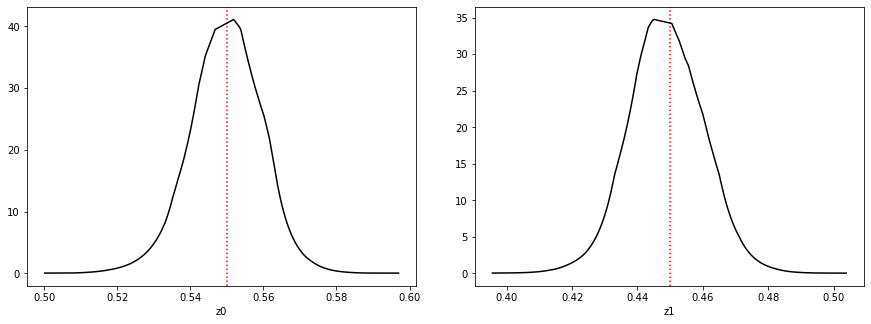
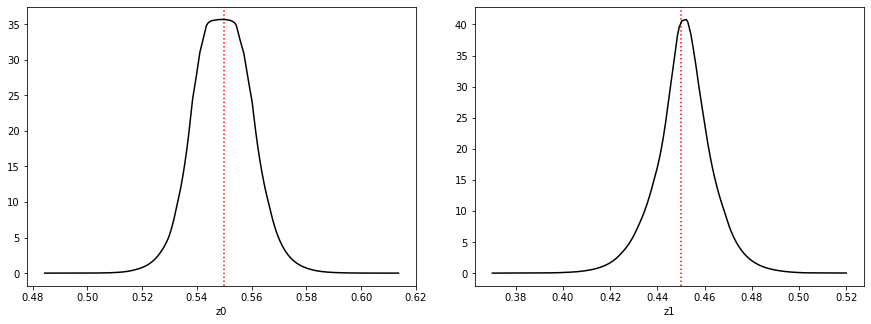
update quickstart docs

diff --git a/docs/source/quickstart.rst b/docs/source/quickstart.rst
@@ -1,14 +1,21 @@
 Quickstart with *swyft*
 =====================
+Run this example in a colab notebook here_.
 
-Example
-------------------
+..  _here: https://colab.research.google.com/github/undark-lab/swyft/blob/master/notebooks/Quickstart.ipynb
 
-As a quick example, the following code (1) defines a simple `simulator' and noise model (2) instantiates a sample cache in memory (3) trains a headless network to estimate likelihood ratios.
+As a quick example, the following code defines a simple "simulator" and noise model and performs inference given a particular draw.
 :: 
+    import numpy as np
+    import pylab as plt
+    import torch
+    import swyft
+    np.random.seed(25)
+    torch.manual_seed(25)
+    
     DEVICE = 'cuda:0' #your gpu, or 'cpu' if a gpu is not available
     MAX_EPOCHS = 100 #maximum number of epochs per training round
-    EXPECTED_N = 20000 #the average number of samples for the algorithm to see per training round
+    EXPECTED_N = 10000 #the average number of samples for the algorithm to see per training round
     
     #a simple simulator
     def simulator(z):
@@ -17,31 +24,13 @@ As a quick example, the following code (1) defines a simple `simulator' and nois
     def noise(x, z = None, noise=0.01):
         n = np.random.randn(*x.shape)*noise
         return x + n
-    #
+    #choose the "true" parameters for an inference problem
     z0 = np.array([0.55,0.45])
     zdim = len(z0)
     x0 = simulator(z0)  # Using Asimov data
     
-    #create cache in memory
-    cache = swyft.MemoryCache(zdim = zdim, xshape = x0.shape)
-    
-    intensity = None
-
-    for _ in range(4):
-        if intensity is None:
-            intensity = swyft.get_unit_intensity(expected_n=EXPECTED_N, dim=zdim)
-        else:
-            intensity = swyft.get_constrained_intensity(
-                expected_n=EXPECTED_N,
-                ratio_estimator=re,
-                x0=x0,
-                threshold=1e-4,
-            )
-        cache.grow(intensity)
-        cache.simulate(simulator)
-        points = swyft.Points(cache, intensity, noise)
-        re = swyft.RatioEstimator(x0, points, device=DEVICE)
-        re.train(max_epochs=MAX_EPOCHS, batch_size=32, lr_schedule=[1e-3, 3e-4, 1e-4])
+    #a simple inference
+    points, re = swyft.run(x0, simulator, zdim = 2, noise = noise, device = DEVICE, n_train = 10000,n_rounds=4)
   
 The resulting 1-dimensional posteriors can be plotted:
 ::
@@ -50,7 +39,7 @@ The resulting 1-dimensional posteriors can be plotted:
 .. image:: images/quickstart-1d.png
    :width: 600
 
-The 2-dimensional posterior is first trained:
+The 2-dimensional posterior can be easily trained:
 ::
     re2 = swyft.RatioEstimator(x0, points, combinations = [[0, 1]], device=DEVICE)
     re2.train(max_epochs=MAX_EPOCHS, batch_size=32, lr_schedule=[1e-3, 3e-4, 1e-4])
@@ -62,122 +51,7 @@ Allowing one to generate a classic triangle plot:
 .. image:: images/quickstart-2d.png
    :width: 1000
 
-Usage in steps
--------------
+For details on tweaking *swyft*, see the tutorial as a notebook on github_ or colab_.
 
-Let's examine the above example in more detail.  First, we define a simulator function, which takes an
-argument numpy vector :math:`z` and returns simulated data :math:`x`. We also define a noise model, which takes the output the simulator and adds noise. ::
-
-    #a simple simulator
-    def simulator(z):
-        return np.array([z[0],2*(z[1]-z[0])])
-    #a simple noise model
-    def noise(x, z = None, noise=0.01):
-        n = np.random.randn(*x.shape)*noise
-        return x + n
-
-We then use the model to generate mock observational data. ::
-
-    z0 = np.array([0.55,0.45])
-    zdim = len(z0)
-    x0 = simulator(z0)  # Using Asimov data
-
-Part of why *swyft* is so simulator-efficient is its sample cache. We instantiate an empty cache in memory.::
-
-    cache = swyft.MemoryCache(zdim = zdim, xshape = x0.shape)
-    
-The cache can also live on your hard drive.::
-
-    cache=swyft.DirectoryCache(zdim = zdim, xshape = x0.shape, path = "path/to/cache.zarr"):
-
-The training loop then takes the following form.::
-
-    intensity = None
-
-    for _ in range(2):
-        if intensity is None:
-            intensity = swyft.get_unit_intensity(expected_n=EXPECTED_N, dim=zdim)
-        else:
-            intensity = swyft.get_constrained_intensity(
-                expected_n=EXPECTED_N,
-                ratio_estimator=re,
-                x0=x0,
-                threshold=1e-4,
-            )
-        cache.grow(intensity)
-        cache.simulate(simulator)
-        points = swyft.Points(cache, intensity, noise)
-        re = swyft.RatioEstimator(points, device=DEVICE)
-        re.train(max_epochs=MAX_EPOCHS, batch_size=32, lr_schedule=[1e-3, 3e-4, 1e-4])
-
-The intensity function describes the Poisson process from which simulations are drawn from the cache. Initially all points are equally likely. In subsequent rounds, the ratio estimator is used to computed a constrained intensity, zooming into relevant regions of the parameter space. From the intensity function, the cache is grown (i.e. relevant points in parameter space are added) and simulator runs are evaluated. From the cache, points are drawn according to the intensity and noise is sampled for each simulation. 
-
-
-
-
-The analysis is then started by invoking SWYFT as follows. ::
-
-    from swyft import SWYFT
-
-    sw = SWYFT(model, x0, zdim = 3)
-    sw.run(nrounds = 3, nsamples = 5000)
-
-This will call the simulator `model` around 15000 times, and sequentially zoom
-into the parameter range that is consistent with mock data $x0$.  After
-training, the 1-dim marginal posteriors can be plotted using ::
-
-    from pylab import plot, show
-
-    for i in range(zdim):
-        z, p = sw.posterior(i)
-        plot(z, p, label = i)
-        axvline(z0[i])  # Comparison with true value
-    show()
-
-If, e.g., 2-dim posteriors for some of the parameter pairs are desired, they
-can be generated simply as well. ::
-
-    SWYFT.comb([[0, 1]])
-    z, p = SWYFT.posterior([0, 1])
-
-
-iP3 Data Caching
-----------
-
-(IN PROGRESS)
-
-Simulator runs can be automatically re-used.  This is done by specifying the
-cache when invoking `SWYFT` ::
-
-    from swyft import MemoryCache, DirectoryCache
-
-    ds = DirectoryCache(filename = 'ds.hdf5')
-
-    sw = SWYFT(model, x0, zdim = 3, ds = ds)
-    sw.run(nrounds = 3, nsamples = 5000)
-
-This works just as above.  However, if we perform a similar analysis again
-(with the same or other mock data), the number of simulator calls is, sometimes
-greatly, reduced. ::
-
-    # Rerunning does require less sampler runs
-    sw = SWYFT(model, x1, zdim = 3, ds = ds)
-    sw.run(nrounds = 3, nsamples = 5000)
-
-
-Custom head networks
---------------------
-
-(IN PROGRESS)
-
-Input data is assumed to be vector-like.  Usually, vectors up to few hundred
-values work well out-of-the-box.  For larger sets of data (images, volumetric
-data, in general diverse data from various experiments), pre-processing is
-required.  This is done using a `Head` network.  SWYFT comes with a range of
-Head networks for typical use-cases, but those networks can be also custom made
-and user-defined.  For image analysis problems, a simple convolutional neural network can be used. Invoking SWYFT with the head-network is shown below. ::
-
-    from swyft import CNN
-
-    sw = SWYFT(model, x0, zdim = 3, head = CNN)
-    sw.run(nrounds = 3, nsamples = 5000)
+.. _github: https://github.com/undark-lab/swyft/blob/master/notebooks/Quickstart.ipynb
+.. _colab: https://colab.research.google.com/github/undark-lab/swyft/blob/master/notebooks/Tutorial.ipynb
